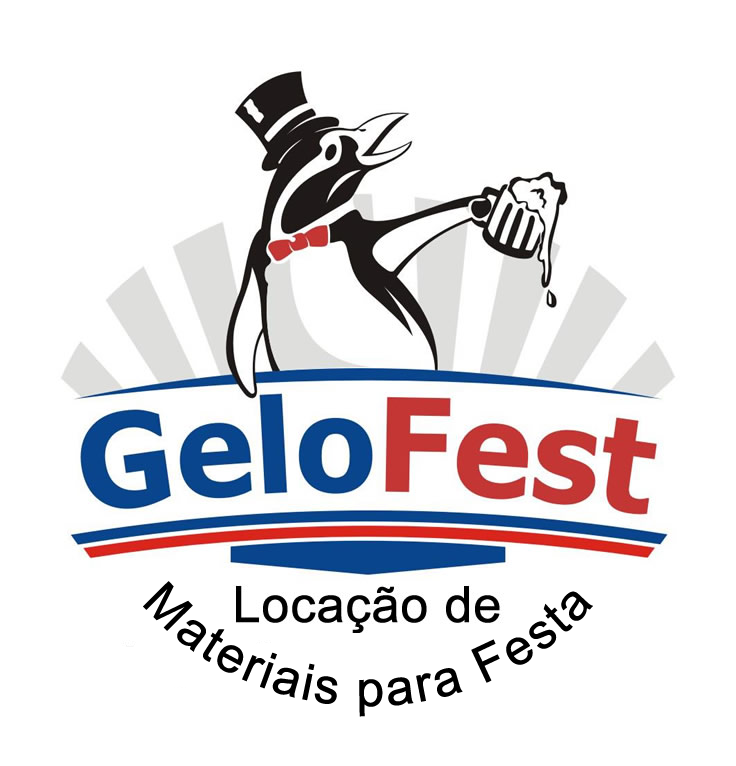
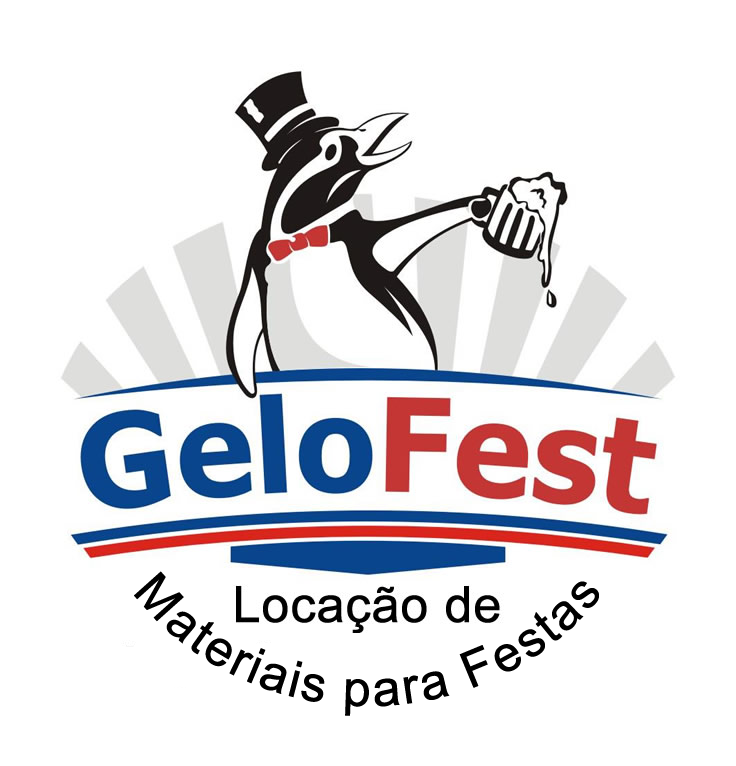
a

Changed region(s): [[0.1875, 0.7507, 0.8125, 0.9308]]

diff --git a/index.html b/index.html
@@ -259,7 +259,7 @@
 							<header>
 								<h1>Olá. Somos a <strong>GeloFest</strong>.</h1>
 							</header>
-							<p><strong>Locação para festa</strong> em Itupeva e região. Trabalhamos com aluguel de mesas, cadeiras toalhas, taças, guardanapos e Souplats para tornar seu evento ainda mais especial. <a href="#contact">Solicite um orçamento on-line!</a></p>
+							<p><strong>Locação para festas</strong> em Itupeva e região. Trabalhamos com aluguel de mesas, cadeiras toalhas, taças, guardanapos e Souplats para tornar seu evento ainda mais especial. <a href="#contact">Solicite um orçamento on-line!</a></p>
 							<a href="#work" class="button large scrolly">Conheça nossos serviços</a>
 						</div>
 					</div>
@@ -387,7 +387,7 @@
 						<li style="margin-top: 25px;">
 							<h3><i class="icon solid fa-phone" style="color: #6D7257;"></i> WhatsApp - Atendimento:</h3>
 							<a href="https://wa.me/5511948937000?text=Ol%C3%A1%20estava%20no%20site%20da%20Gelofest%20e%20gostaria%20de%20mais%20informa%C3%A7%C3%B5es%20sobre%20loca%C3%A7%C3%A3o%20de%20itens%20para%20minha%20festa" target="_blank" rel="noopener" style="font-size: 1.1em; font-weight: bold;">
-								(13) 97417-0232
+								(11) 94893-7000
 							</a>
 						</li>
 						<li style="margin-top: 25px;">
@@ -424,7 +424,7 @@
 					</div>
 					<footer>
 						<ul id="copyright">
-							<li>&copy; GeloFest. Todos os direitos reservados.</li><li>Design: <a href="http://html5up.net">HTML5 UP</a></li>
+							<li>&copy; GeloFest. Todos os direitos reservados.</li><li>Design: <a href="https://locaaqui.com.br/">Locaaqui.com.br</a></li>
 						</ul>
 					</footer>
 				</div>
